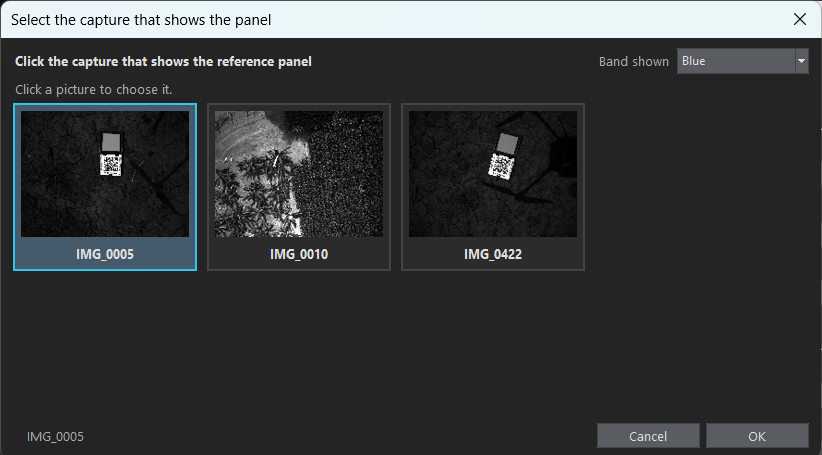
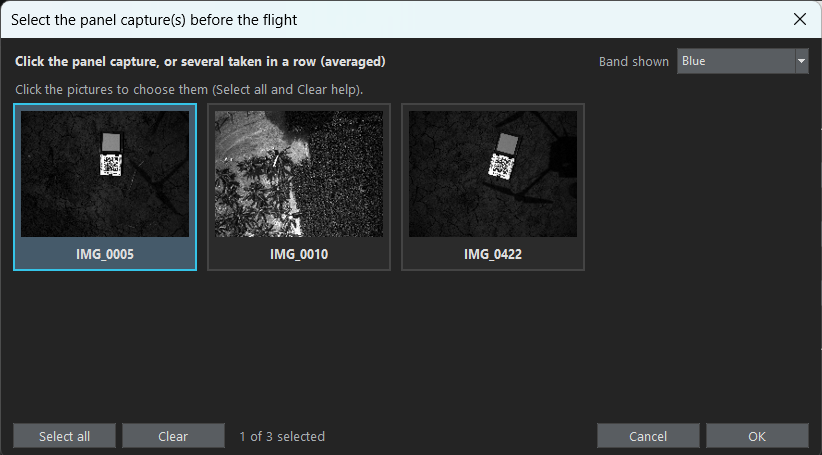
Retake the screenshots; measure the results path as it is written
- New screenshots of the Inputs page (Output, captures to leave out),
  Reference panel page (orientation), DLS page (spread limit), Run page
  (the new log lines) and the capture picker (several panel captures).
- The check of the 260-character limit of Windows measured the results
  folder after resolving it, so a short path on a drive mapped to a long
  folder (subst) was refused although Windows accepts it: the path is now
  measured as written (os.path.abspath).
- Shorter text in the picker of the panel captures, which did not fit.

diff --git a/radiometric_app/radiometric_workflow.py b/radiometric_app/radiometric_workflow.py
@@ -721,11 +721,14 @@ def windows_long_paths_enabled():
 
 
 def path_length_problems(results_folder):
-    """ A problem when the files of the results folder would have paths too long for Windows """
-    length = len(str(Path(results_folder).resolve())) + 1 + RESULT_NAME_ALLOWANCE
-    if length <= WINDOWS_PATH_LIMIT or windows_long_paths_enabled():
+    """
+    A problem when the files of the results folder would have paths too long for Windows. The path is measured as it is
+    written (made absolute, not resolved): Windows applies the limit to it, also on a drive mapped to a long folder
+    """
+    folder = os.path.abspath(str(results_folder))
+    if len(folder) + 1 + RESULT_NAME_ALLOWANCE <= WINDOWS_PATH_LIMIT or windows_long_paths_enabled():
         return []
-    return [f"The results folder path is too long for Windows: {len(str(Path(results_folder).resolve()))} characters, "
+    return [f"The results folder path is too long for Windows: {len(folder)} characters, "
             f"and with the names of the files it would pass the limit of {WINDOWS_PATH_LIMIT + 1}. Choose a shorter "
             f"folder (or turn on long paths in Windows)"]
 

diff --git a/radiometric_app/radiometric_window.py b/radiometric_app/radiometric_window.py
@@ -811,8 +811,8 @@ class RadiometricFrame:
         moment = 'before the flight' if key == 'INPUTS.reference_panel_capture' else 'after the flight (none: no second)'
         chosen = pick_captures(self.parent.winfo_toplevel(), names, selected=wf.capture_names(self.model.get(key)),
                                multiple=True, title=f'Select the panel capture(s) {moment}',
-                               message='Click the capture that shows the reference panel, or several taken one after the '
-                                       'other (they are averaged)', **self._picker_arguments())
+                               message='Click the panel capture, or several taken in a row (averaged)',
+                               **self._picker_arguments())
         if chosen is not None:
             self.set_value(key, ', '.join(chosen))
 

diff --git a/tests/test_radiometric_workflow.py b/tests/test_radiometric_workflow.py
@@ -43,6 +43,10 @@ class ConfigurationTests(unittest.TestCase):
             self.assertEqual(wf.path_length_problems(Path(tempfile.gettempdir()) / 'results'), [])
         with mock.patch.object(wf, 'windows_long_paths_enabled', return_value=True):
             self.assertEqual(wf.path_length_problems(long_folder), [])
+        # the path as it is written counts, not where a mapped drive leads (os.path.abspath does not resolve)
+        with mock.patch.object(wf, 'windows_long_paths_enabled', return_value=False), \
+                mock.patch.object(wf.os.path, 'abspath', return_value='R:\\results\\reflectance'):
+            self.assertEqual(wf.path_length_problems('R:\\results\\reflectance'), [])
 
     def test_the_configuration_is_found_in_what_a_run_wrote(self):
         values = {'PANEL.percent_inner_area': 0.5}
